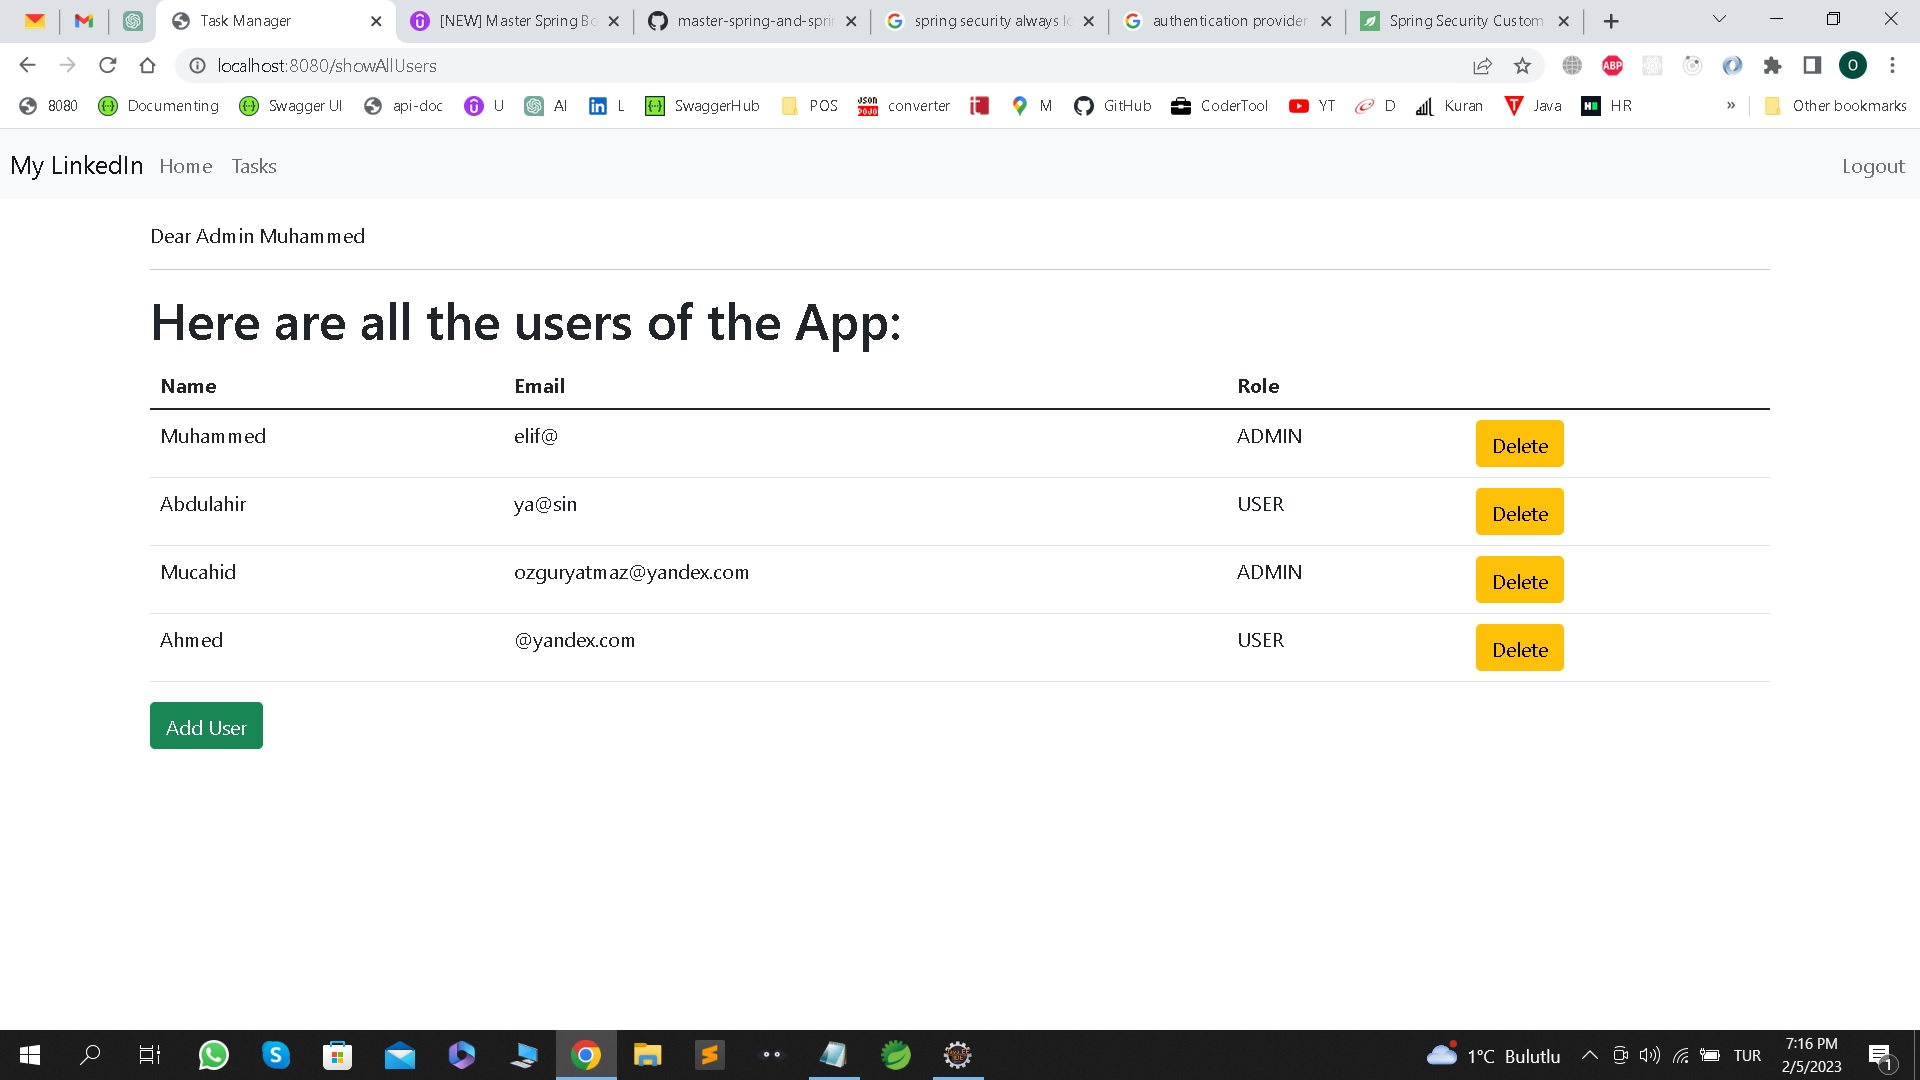
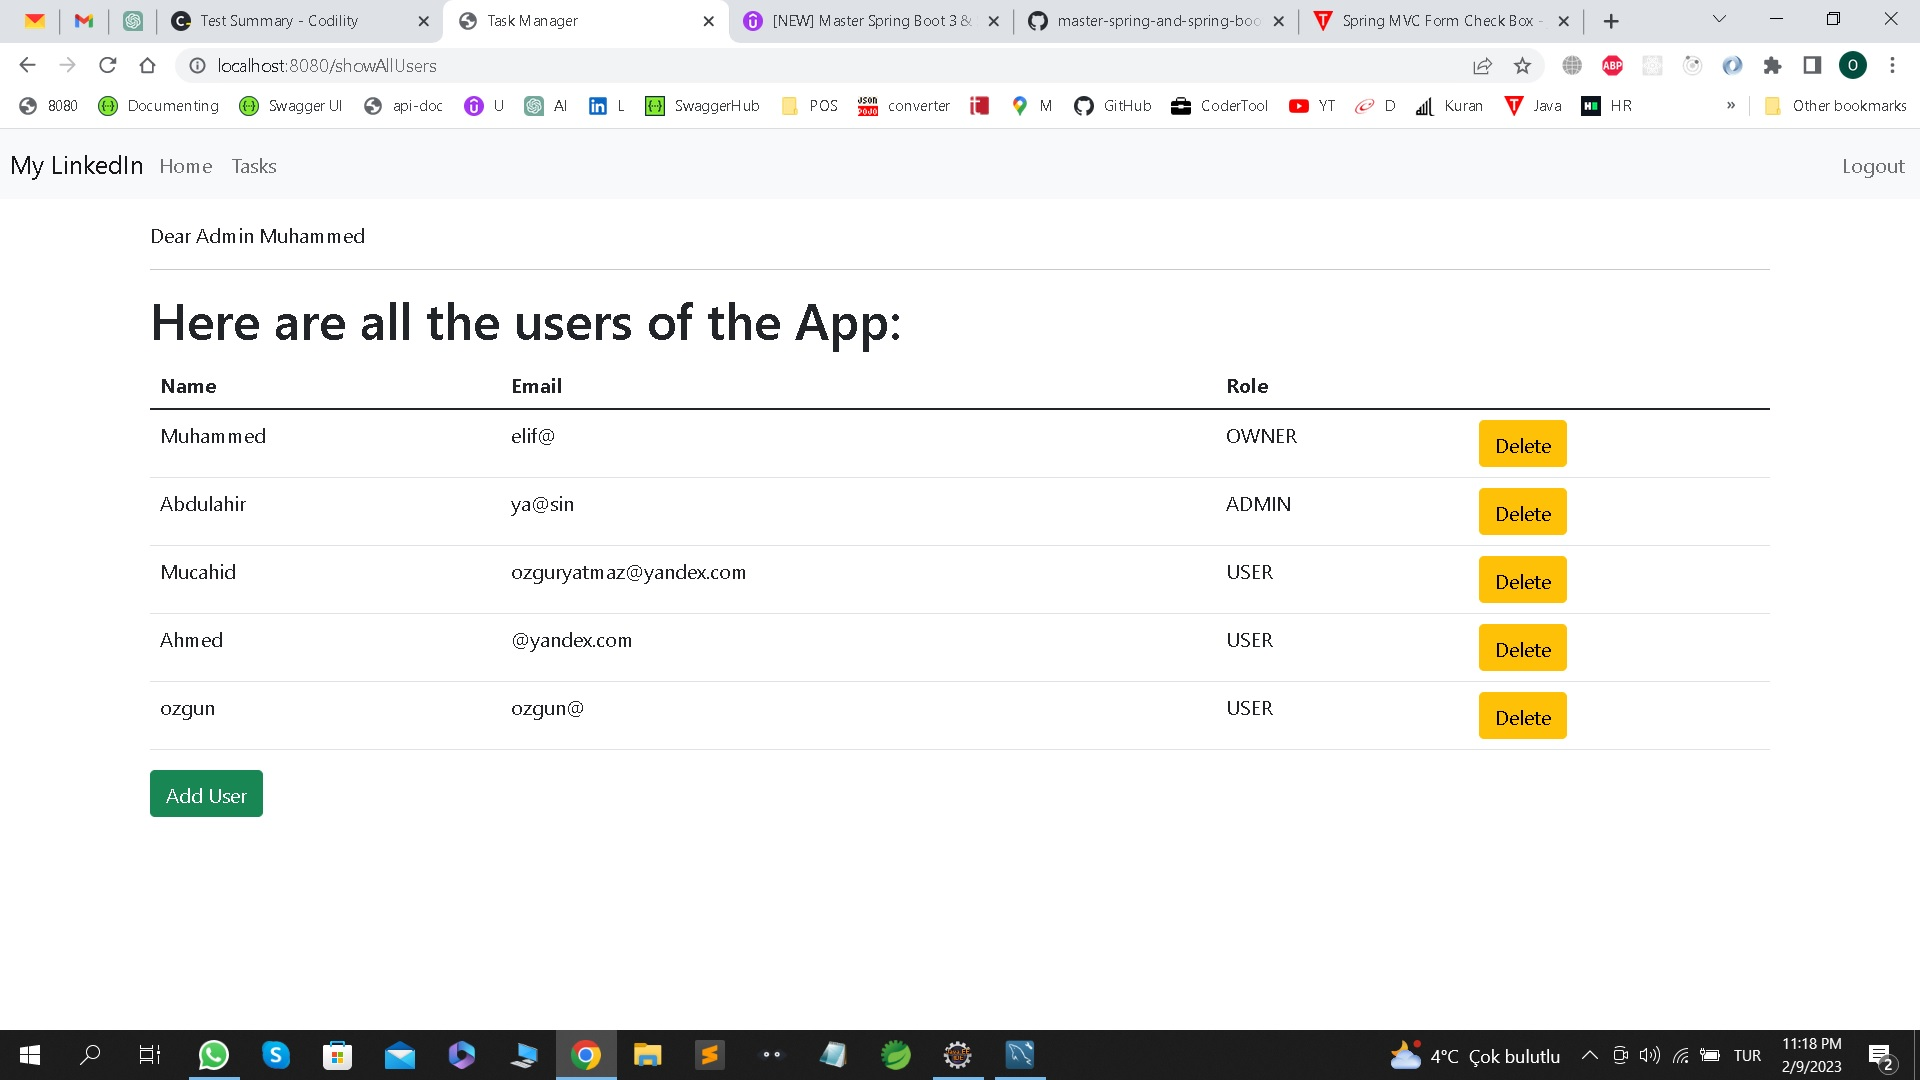
new role is added as radio button and rigth of deleting user is only given to owner

diff --git a/task-manager-app/src/main/java/com/tasks/configuration/SecurityConfiguration.java b/task-manager-app/src/main/java/com/tasks/configuration/SecurityConfiguration.java
@@ -18,7 +18,8 @@ public class SecurityConfiguration {
 	@Bean
 	public SecurityFilterChain securityFilterChain(HttpSecurity http) throws Exception {
 		http.authorizeHttpRequests()
-			.requestMatchers("/showAddUserPage","/addUser","/showAllUsers","/deleteUser").hasAuthority("ADMIN")//hasRole("ROLE_ADMIN")//@PreAuthorize("hasRole('ROLE_ADMIN')") is used instead
+			.requestMatchers("/showAddUserPage","/addUser","/showAllUsers").hasAnyAuthority("ADMIN","OWNER")//hasRole("ROLE_ADMIN")//@PreAuthorize("hasRole('ROLE_ADMIN')") is used instead
+			.requestMatchers("/deleteUser").hasAuthority("OWNER")
 			.anyRequest()
 			.authenticated()
 			.and().formLogin()
